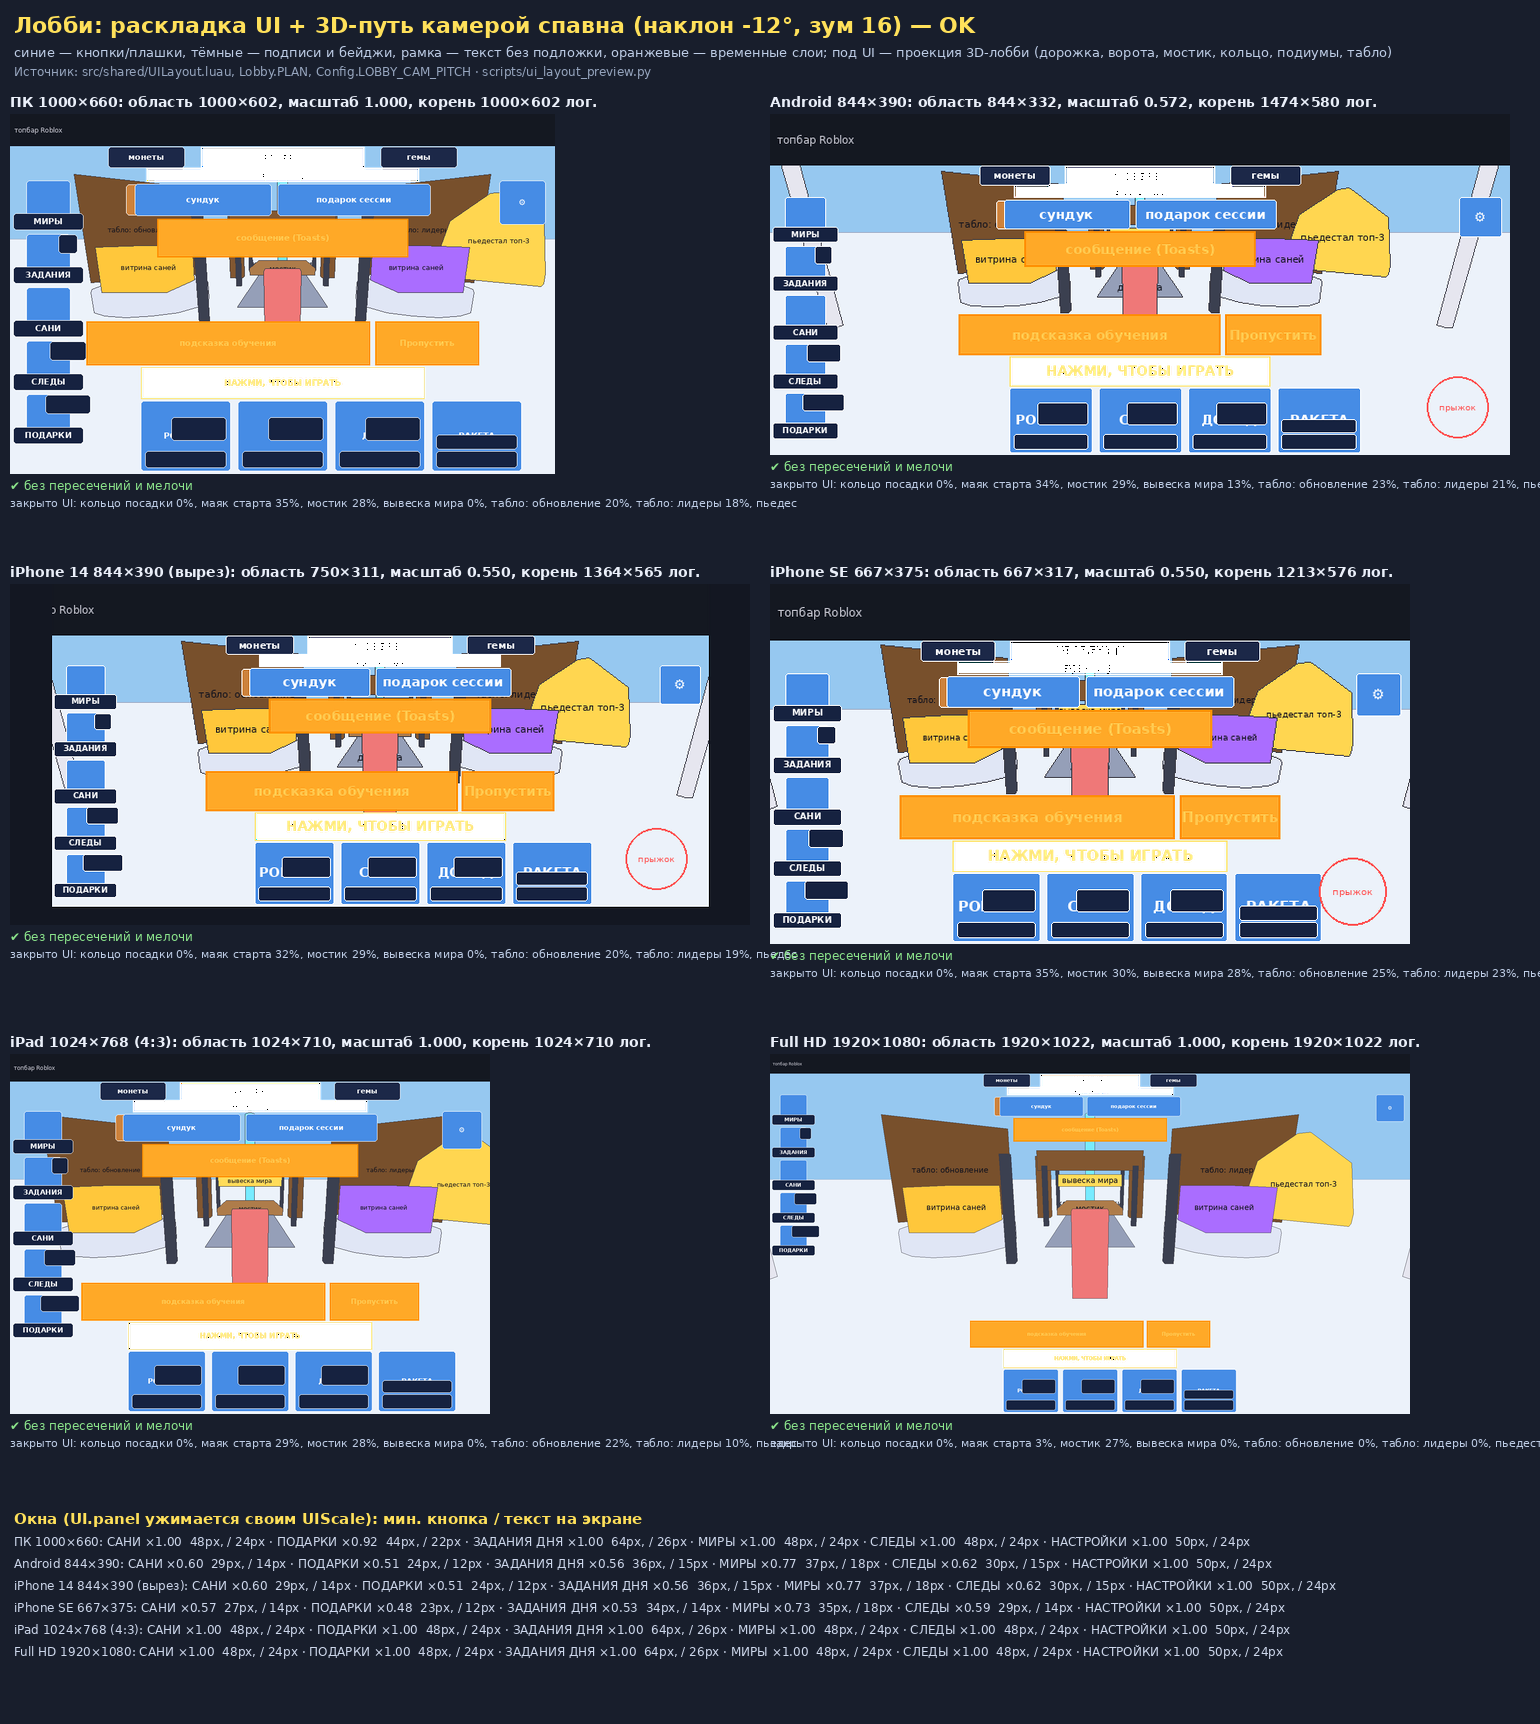
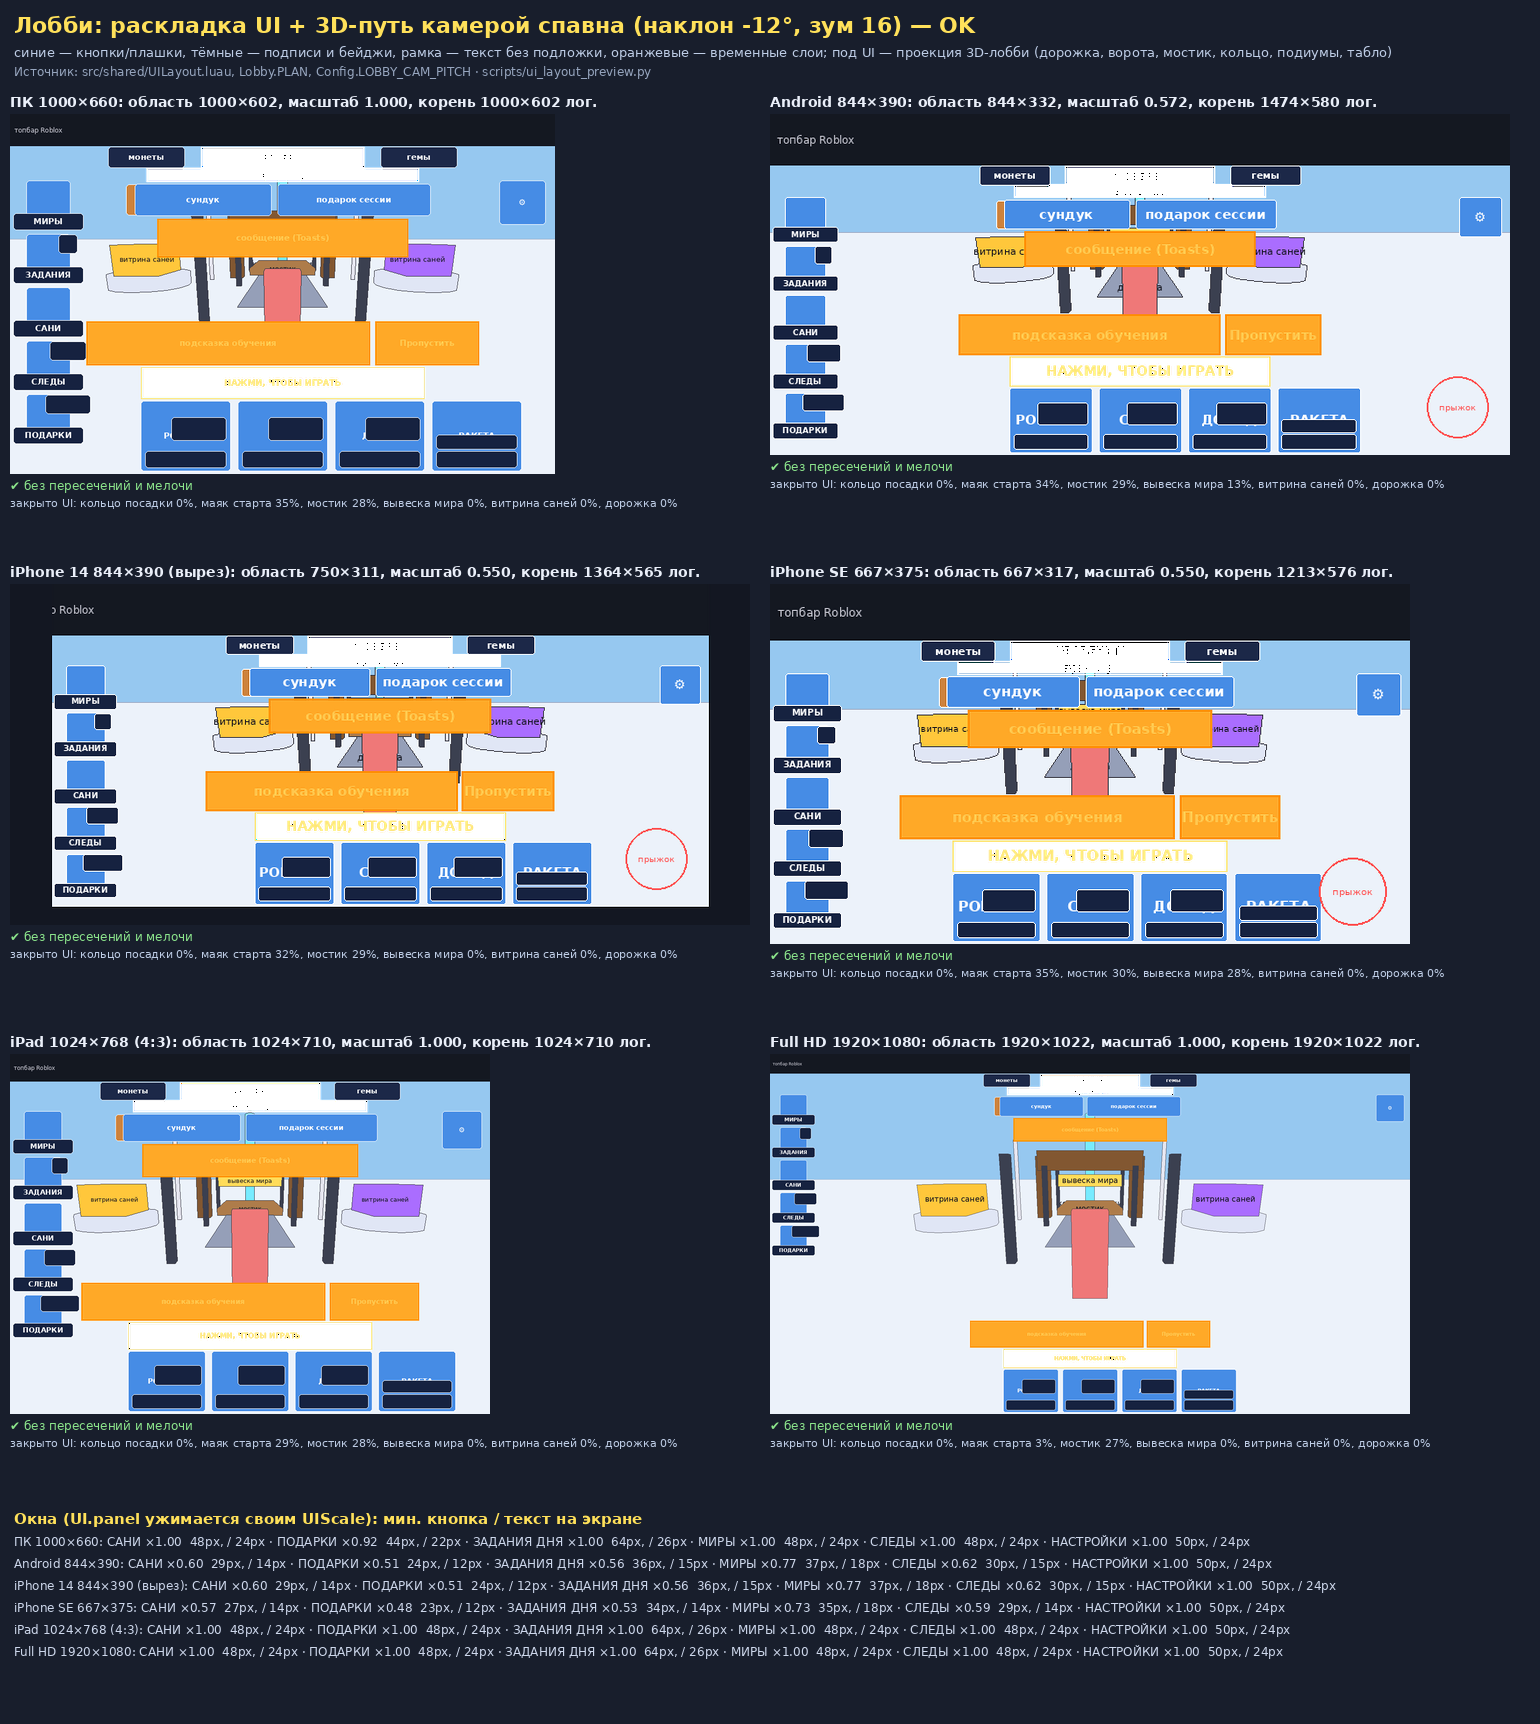
Лобби: станции по кругу, портал «Миры», лавка «Сани»
- станции на эллипсе 54×36 вокруг плиты-хаба, лицом к спавну, ≥4 studs между зонами
- портал «Миры» и лавка «Сани» открывают окна при входе в зону (LobbyMenus)
- палатка, фонари-«виселицы», снежные шапки, дорожка-кольцо
- Lobby.free/pushOut: декор мира не внутри кольца и не на станциях

Closes #69
Refs #72

Claude-Session: https://claude.ai/code/session_01R9YW5VKB4Evf9gznkH8dgt

diff --git a/docs/ARCHITECTURE.md b/docs/ARCHITECTURE.md
@@ -66,7 +66,7 @@ GitHub Actions публикует его в Roblox через Open Cloud.
 | `shared/Props/Obstacles` | 357 | препятствия и `Props.obstacle(theme, …)` |
 | `shared/Props/Decor` | 309 | деревья, постройки, горы, трамплин, шар |
 | `shared/Props/Worlds` | 257 | модели миров 4–7 |
-| `shared/Props/LobbyDecor` | 186 | костёр, флагшток, гирлянда; меши лобби: `lampPost`, `podium`, `boardFrame`, `startGate` (фолбэк — Part) |
+| `shared/Props/LobbyDecor` | 320 | костёр, флагшток, гирлянда; меши лобби: `lampPost`, `podium`, `boardFrame`, `startGate` (фолбэк — Part); станции кольца (#69): `worldPortal`, `shopStall` (деталь `Zone` с атрибутом `Menu`), `tent`, `hangLamp`, `snowCap` |
 | `shared/UILayout` | 84 | места и размеры лобби-UI (`{ ax, ay, sx, ox, sy, oy, w, h }`), `DESIGN_W/H`, `MIN_TOUCH`/`MIN_PILL`/`MIN_TEXT` (+ для окон) |
 | `shared/Meshes` | 107 | меши декора (#45): `has(...)` (все шаблоны есть и `MESH_DECOR` = 1), `waitFor(имена, таймаут)` (ждать шаблоны с ID в `MeshIds`), `place(имя, основание, масштаб, свойства, родитель)`, `vary` (разброс оттенка по позиции) |
 | `shared/SledModels/init` | 73 | фасад транспорта (прежний API): `build` (корпус: меши `BodyMeshes`, если все шаблоны модели есть, иначе Part `Bodies`), `extras`, `rocket`, `slingshot`, `ROCKETS`, `MOUNTS`, `ROPE_*`, `MESHES` (все меши транспорта — витрина ждёт их) |
@@ -174,6 +174,11 @@ GitHub Actions публикует его в Roblox через Open Cloud.
 ### Лобби и витрина
 
 Чертёж — `Lobby.PLAN` (координаты от `Config.LOBBY_POS`, схема сверху — в комментарии над ним).
+Станции стоят по эллипсу `PLAN.hub` (#69); `Lobby.STATIONS` — занятые зоны, `Lobby.free(x, z, r)` /
+`Lobby.pushOut` не дают декору мира (`Lobby.dress`) встать внутрь кольца или на станцию. Портал
+«Миры» и лавка «Сани» — модели `WorldPortal`/`SledStall` с деталью `Zone` (атрибут `Menu` =
+`worlds`/`sleds`); `client/LobbyMenus` раз в `LOBBY_ZONE_POLL` с проверяет вход персонажа в зону и
+открывает окно (только на входе, окна закрыты, не в заезде).
 Сервер строит в два шага. `Lobby.build` (через `Track.buildLobby`, сразу): земля, плита-хаб,
 дорожка с шевронами, мостик, маяк старта, спавн, Terrain (скальный массив под площадкой и гряда
 задника — `Rock`, только z ≥ −38). `Lobby.furnish` (в `task.spawn`, после

diff --git a/docs/CHANGELOG.md b/docs/CHANGELOG.md
@@ -1,5 +1,18 @@
 # Журнал изменений
 
+## Лобби: станции по кругу, портал «Миры», лавка «Сани» (#69; track-architect, art-director)
+- Владелец: «посмотри величину лобби и как расставлены элементы, по кругу, не перекрывая, на
+  достаточном расстоянии». Было: площадка 150 × 90, а всё важное — в полосе ±30 studs у дорожки
+  (зоны подиумов в 2.5 studs от дорожки и заходили на плиту спавна, костёр в 1.4 studs от плиты, табло и
+  пьедестал — в одной куче у ворот). Стало: станции на эллипсе 54 × 36 вокруг плиты-хаба, все лицом
+  к спавну, между зонами соседей ≥ 4 studs, середина свободна; дорожка-кольцо 42 × 25.
+- Новое по референсам: портал «Миры» (светящаяся арка, вход в зону открывает окно миров), лавка
+  «Сани» с полосатым навесом (окно саней), палатка у костра, фонари-«виселицы», снежные шапки с
+  сосульками (`Props.snowCap`). Подиумы на ±25° — по макету `ui_layout_preview.py` их не закрывает UI
+  ни на одном экране (было до 3%).
+- `Lobby.free`/`pushOut`: декор мира только снаружи кольца и не на станциях; лавовые лужи вулкана
+  перенесены от края обрыва назад. Карта сверху проверена на стенде для 7 миров. `Config.LOBBY_ZONE_POLL`.
+
 ## Референсы владельца 2026-11-11 и тоннели (#65, эпик #72; track-architect, art-director)
 - **`docs/ART_REFERENCES.md`**: разбор 2 видео (лобби и заезд игры того же жанра) и ~45 картинок —
   единый стиль «мягкий пластилин», таблица «картинка → наш ассет → где → issue», что из видео у нас уже
